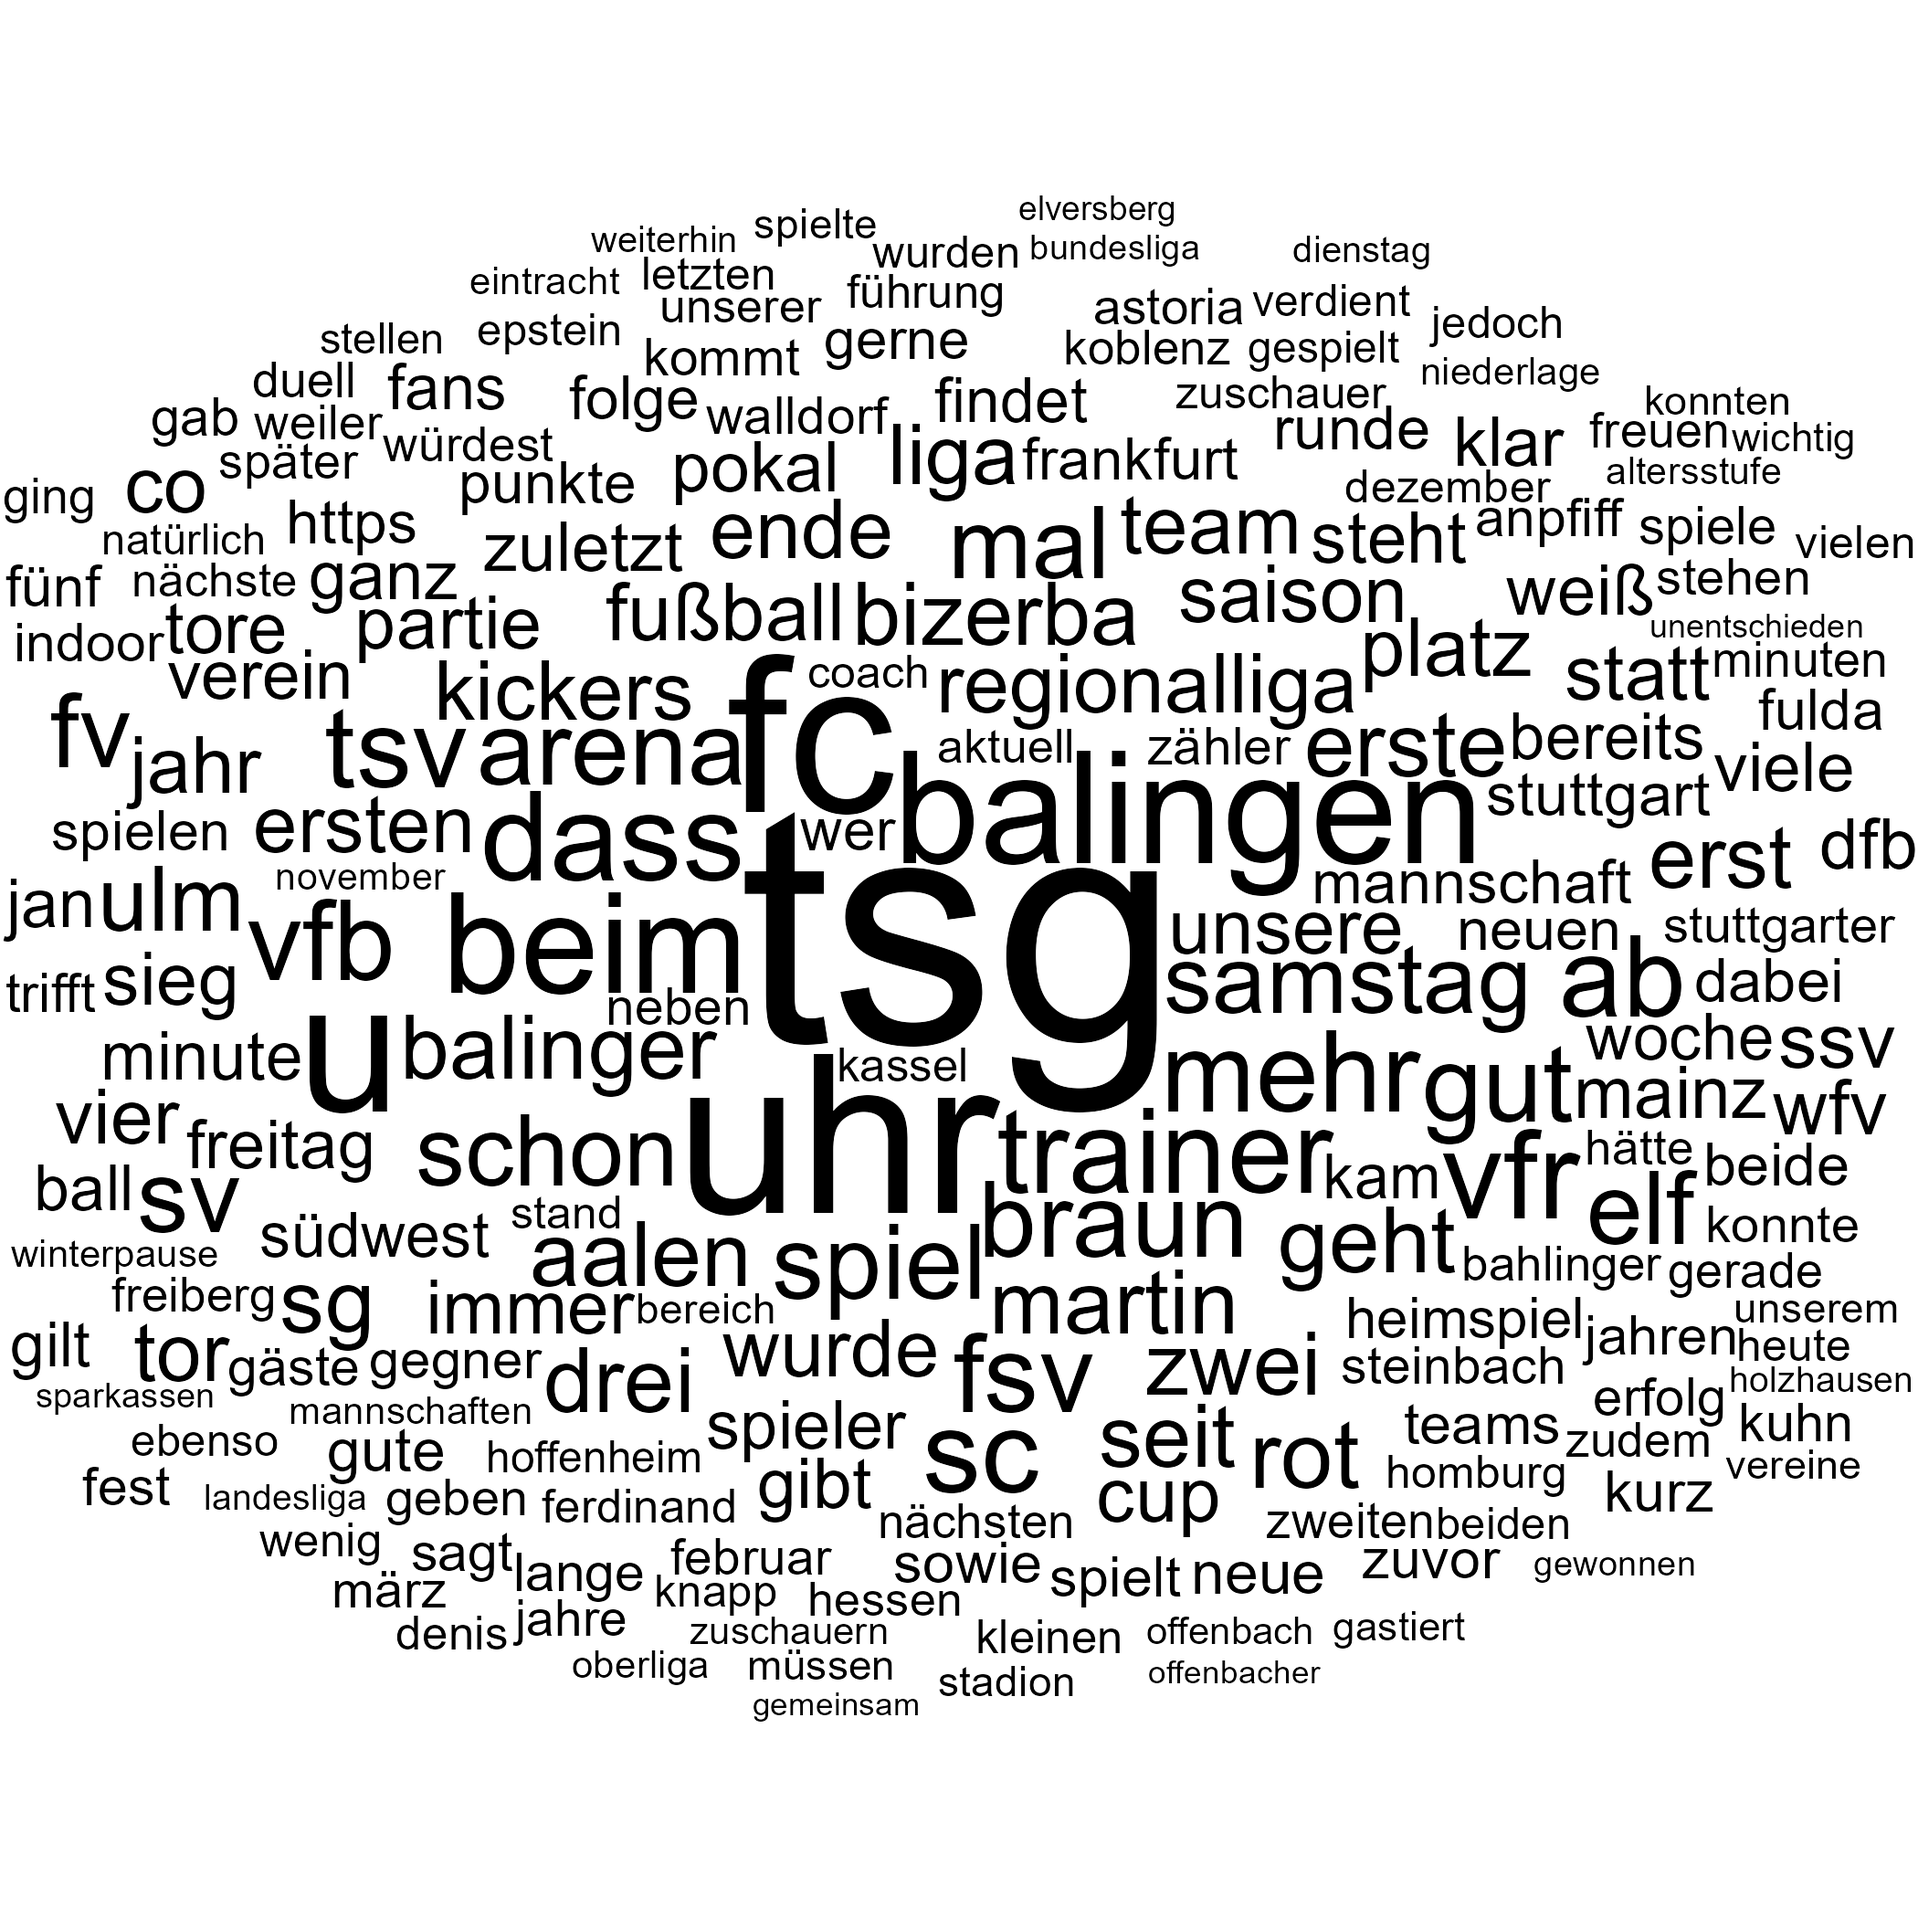
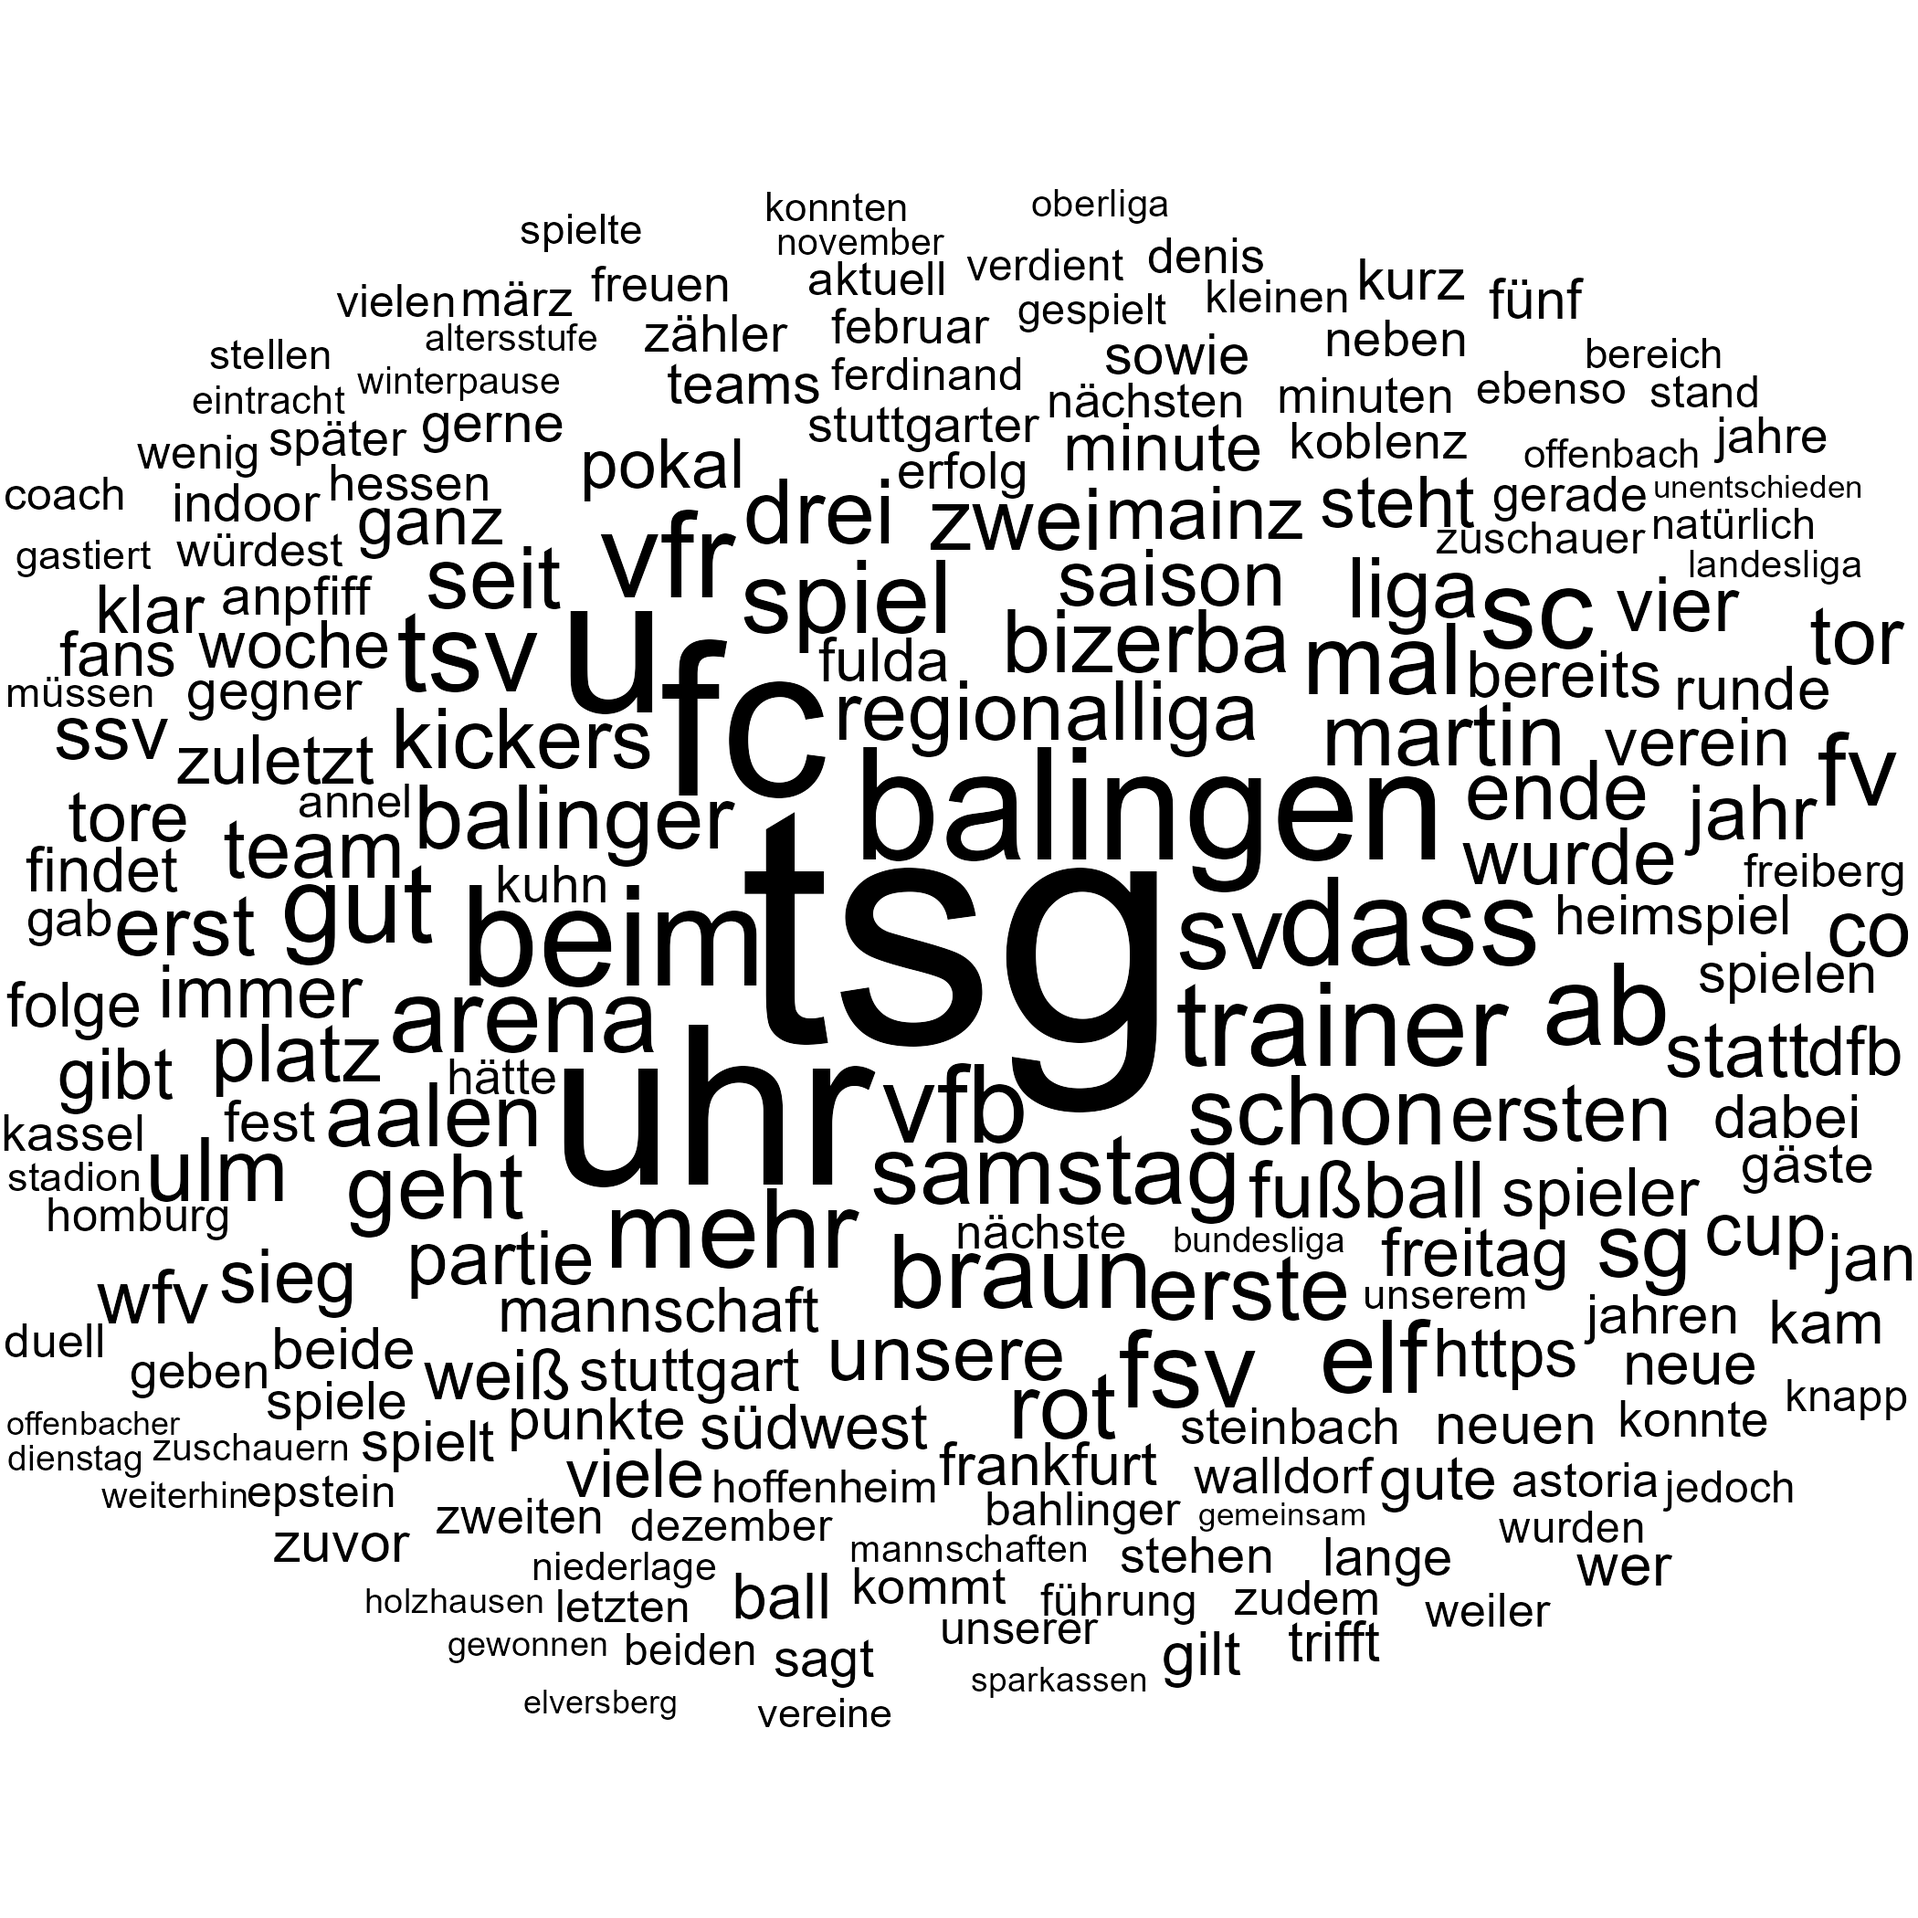
Data Update

Changed region(s): [[0.0, 0.0929, 1.0, 0.8976]]

diff --git a/rvest_tsg_blog_post.html b/rvest_tsg_blog_post.html
@@ -94,8 +94,8 @@ code span.wa { color: #5e5e5e; font-style: italic; }
 
 
   <!--  https://schema.org/Article -->
-  <meta property="article:published" itemprop="datePublished" content="2024-05-12" />
-  <meta property="article:created" itemprop="dateCreated" content="2024-05-12" />
+  <meta property="article:published" itemprop="datePublished" content="2024-05-25" />
+  <meta property="article:created" itemprop="dateCreated" content="2024-05-25" />
   <meta name="article:author" content="Julian During" />
 
   <!--  https://developers.facebook.com/docs/sharing/webmasters#markup -->
@@ -113,7 +113,7 @@ code span.wa { color: #5e5e5e; font-style: italic; }
   <!--radix_placeholder_rmarkdown_metadata-->
 
   <script type="text/json" id="radix-rmarkdown-metadata">
-  {"type":"list","attributes":{"names":{"type":"character","attributes":{},"value":["title","description","author","date","output","params","editor_options","creative_commons","repository_url","base_url"]}},"value":[{"type":"character","attributes":{},"value":["Friendly Webscraping"]},{"type":"character","attributes":{},"value":["Scraping my local Football Club's News Data\n"]},{"type":"list","attributes":{},"value":[{"type":"list","attributes":{"names":{"type":"character","attributes":{},"value":["name"]}},"value":[{"type":"character","attributes":{},"value":["Julian During"]}]}]},{"type":"character","attributes":{},"value":["2024-05-12"]},{"type":"character","attributes":{},"value":["distill::distill_article"]},{"type":"list","attributes":{"names":{"type":"character","attributes":{},"value":["interactive","plot_path"]}},"value":[{"type":"logical","attributes":{},"value":[true]},{"type":"character","attributes":{},"value":["tsg_word_cloud.png"]}]},{"type":"list","attributes":{"names":{"type":"character","attributes":{},"value":["chunk_output_type"]}},"value":[{"type":"character","attributes":{},"value":["console"]}]},{"type":"character","attributes":{},"value":["CC BY"]},{"type":"character","attributes":{},"value":["https://github.com/duju211/rvest_tsg"]},{"type":"character","attributes":{},"value":["https://www.datannery.com/posts/friendly-webscraping/"]}]}
+  {"type":"list","attributes":{"names":{"type":"character","attributes":{},"value":["title","description","author","date","output","params","editor_options","creative_commons","repository_url","base_url"]}},"value":[{"type":"character","attributes":{},"value":["Friendly Webscraping"]},{"type":"character","attributes":{},"value":["Scraping my local Football Club's News Data\n"]},{"type":"list","attributes":{},"value":[{"type":"list","attributes":{"names":{"type":"character","attributes":{},"value":["name"]}},"value":[{"type":"character","attributes":{},"value":["Julian During"]}]}]},{"type":"character","attributes":{},"value":["2024-05-25"]},{"type":"character","attributes":{},"value":["distill::distill_article"]},{"type":"list","attributes":{"names":{"type":"character","attributes":{},"value":["interactive","plot_path"]}},"value":[{"type":"logical","attributes":{},"value":[true]},{"type":"character","attributes":{},"value":["tsg_word_cloud.png"]}]},{"type":"list","attributes":{"names":{"type":"character","attributes":{},"value":["chunk_output_type"]}},"value":[{"type":"character","attributes":{},"value":["console"]}]},{"type":"character","attributes":{},"value":["CC BY"]},{"type":"character","attributes":{},"value":["https://github.com/duju211/rvest_tsg"]},{"type":"character","attributes":{},"value":["https://www.datannery.com/posts/friendly-webscraping/"]}]}
   </script>
   <!--/radix_placeholder_rmarkdown_metadata-->
   
@@ -2361,7 +2361,7 @@ distill-header .nav a {
 <!--radix_placeholder_front_matter-->
 
 <script id="distill-front-matter" type="text/json">
-{"title":"Friendly Webscraping","description":"Scraping my local Football Club's News Data","authors":[{"author":"Julian During","authorURL":"#","affiliation":"&nbsp;","affiliationURL":"#","orcidID":""}],"publishedDate":"2024-05-12T00:00:00.000+02:00","citationText":"During, 2024"}
+{"title":"Friendly Webscraping","description":"Scraping my local Football Club's News Data","authors":[{"author":"Julian During","authorURL":"#","affiliation":"&nbsp;","affiliationURL":"#","orcidID":""}],"publishedDate":"2024-05-25T00:00:00.000+02:00","citationText":"During, 2024"}
 </script>
 
 <!--/radix_placeholder_front_matter-->
@@ -2381,7 +2381,7 @@ distill-header .nav a {
 <div class="d-byline">
   Julian During  
   
-<br />2024-05-12
+<br />2024-05-25
 </div>
 
 <div class="d-article">
@@ -2486,14 +2486,14 @@ are links to news articles:</p>
 <div class="layout-chunk" data-layout="l-body">
 
 </div>
-<p>In total we have 432 articles to scrape.</p>
+<p>In total we have 436 articles to scrape.</p>
 <p>Look at some example paths:</p>
 <div class="layout-chunk" data-layout="l-body">
-<pre><code>[1] &quot;/2022/04/27/unser-trainer-leonardo-ferrero-u13/&quot;              
-[2] &quot;/2022/02/07/tonnymadegwa/&quot;                                    
-[3] &quot;/2021/09/29/regionalliga-pleite-am-bornheimer-hang/&quot;          
-[4] &quot;/2021/10/19/regionalliga-balingen-bei-den-spatzen/&quot;           
-[5] &quot;/2023/10/05/regionalliga-tsg-spielt-am-sonntag-in-hoffenheim/&quot;</code></pre>
+<pre><code>[1] &quot;/2022/05/03/regionalliga-finales-heimspiel-walldorf-zu-gast/&quot;
+[2] &quot;/2022/02/15/regionalliga-der-fc-giessen-gastiert/&quot;           
+[3] &quot;/2021/08/22/regionalliga-tsg-erneut-ohne-sieg/&quot;              
+[4] &quot;/2021/10/07/mitgliederversammlung-tsg-balingen-fussball-e-v/&quot;
+[5] &quot;/2021/10/26/regionalliga-remis-gegen-koblenz/&quot;               </code></pre>
 </div>
 <p>We want to extract the content of every article. We are looking for the
 following parts of the post by searching for specific CSS expressions:</p>

diff --git a/README.md b/README.md
@@ -87,15 +87,15 @@ We now want to find all news articles on the website:
 
     paths_news <- news_links(tsg_host, news_path, articles_css)
 
-In total we have 432 articles to scrape.
+In total we have 436 articles to scrape.
 
 Look at some example paths:
 
-    ## [1] "/2024/02/01/regionalliga-tsg-mit-vier-weiteren-zugaengen-und-einem-abgang/"
-    ## [2] "/2021/11/15/regionalliga-tsg-trifft-auf-den-tabellenfuehrer/"              
-    ## [3] "/2022/04/01/kooperation-mit-dem-vfb-stuttgart/"                            
-    ## [4] "/2022/10/29/regionalliga-so-siegte-die-tsg-in-trier/"                      
-    ## [5] "/2023/05/07/regionalliga-balinger-11-gegen-trier/"
+    ## [1] "/2021/08/22/regionalliga-tsg-erneut-ohne-sieg/"            
+    ## [2] "/2024/02/16/regionalliga-finaler-testlauf-gegen-pforzheim/"
+    ## [3] "/2021/11/25/sparkassen-indoorcup-abgesagt/"                
+    ## [4] "/2022/04/04/osterei-gewinnspiel/"                          
+    ## [5] "/2022/11/05/regionalliga-10-gegen-wormatia-worms/"
 
 We want to extract the content of every article. We are looking for the
 following parts of the post by searching for specific CSS expressions:
